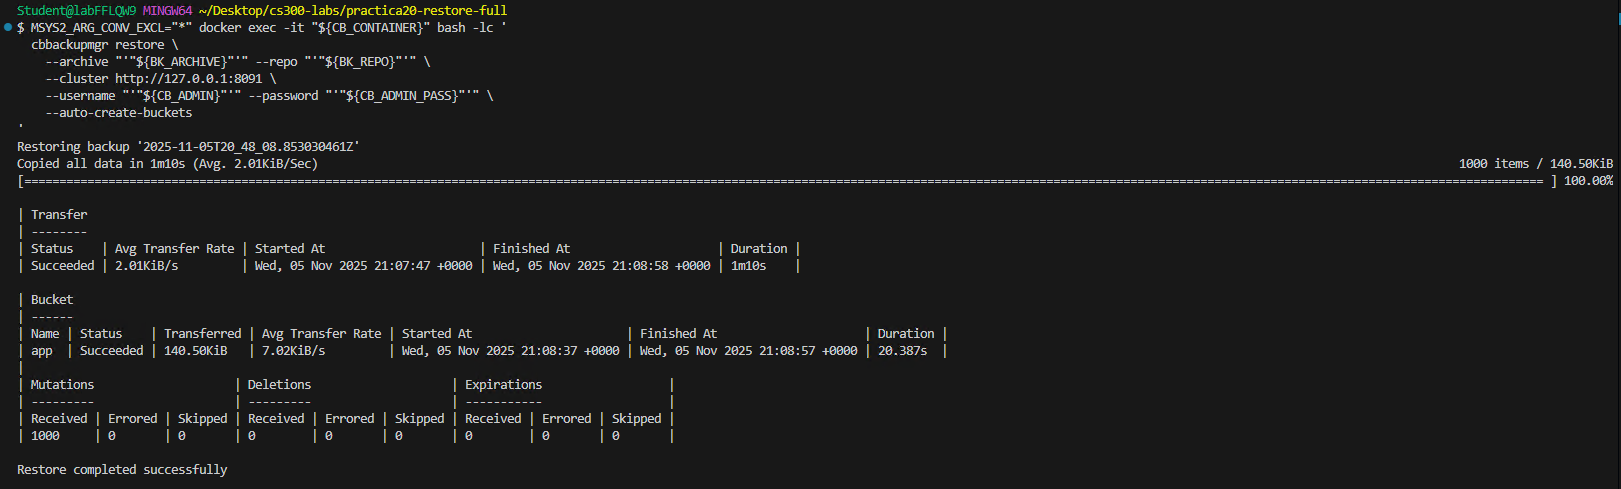
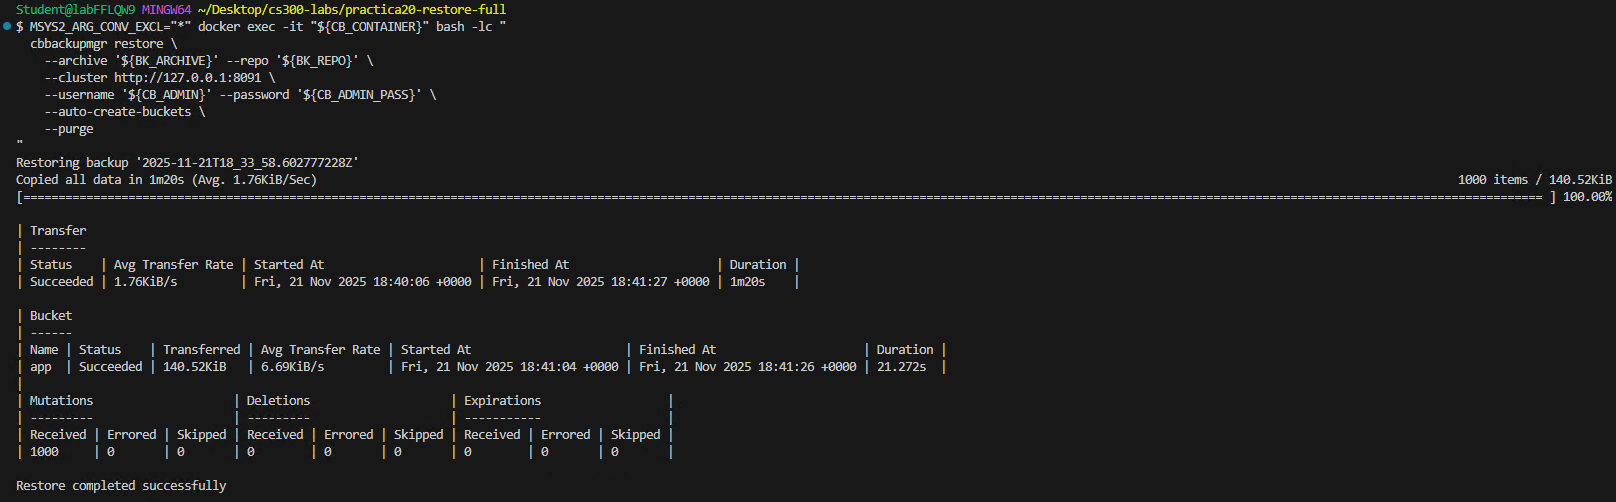
Ajustes de la practica 20 y 22

diff --git a/labs/lab20/lab20.md b/labs/lab20/lab20.md
@@ -359,7 +359,7 @@ Simularás pérdida del bucket borrándolo del clúster y **restaurarás** el co
   ```
   ![cbase16]({{ page.images_base | relative_url }}/16.png)
 
-- **Paso 20.** Reliza la restauracion **completa** desde el repo.
+- **Paso 20.** Realiza la restauracion **completa** desde el repo.
 
   > **NOTA:** Si tu backup contiene múltiples buckets o colecciones, `--map-data` te permite controlar exactamente a dónde se restauran. Para esta practica no es necesario.
   {: .lab-note .info .compact}
@@ -367,13 +367,14 @@ Simularás pérdida del bucket borrándolo del clúster y **restaurarás** el co
   {: .lab-note .important .compact}
 
   ```bash
-  MSYS2_ARG_CONV_EXCL="*" docker exec -it "${CB_CONTAINER}" bash -lc '
+  MSYS2_ARG_CONV_EXCL="*" docker exec -it "${CB_CONTAINER}" bash -lc "
     cbbackupmgr restore \
-      --archive "'"${BK_ARCHIVE}"'" --repo "'"${BK_REPO}"'" \
+      --archive '${BK_ARCHIVE}' --repo '${BK_REPO}' \
       --cluster http://127.0.0.1:8091 \
-      --username "'"${CB_ADMIN}"'" --password "'"${CB_ADMIN_PASS}"'" \
-      --auto-create-buckets
-  '
+      --username '${CB_ADMIN}' --password '${CB_ADMIN_PASS}' \
+      --auto-create-buckets \
+      --purge
+  "
   ```
   ![cbase17]({{ page.images_base | relative_url }}/17.png)
 

diff --git a/labs/lab22/lab22.md b/labs/lab22/lab22.md
@@ -448,7 +448,7 @@ Repetirás las métricas para evidenciar la mejora.
 
 #### Tarea 6.1
 
-- **Paso 25.** Repie la ejecución de la metrica `basicStats` y obten los tamaños de discos usados.
+- **Paso 25.** Repite la ejecución de la metrica `basicStats` y obten los tamaños de discos usados.
 
   > **IMPORTANTE:** Es normal que siga marcando 0% de fragmentación solo es un calculo de referencia y depende de las configuraciones del cluster. Lo importante es que observes la cantidad de **`diskUsed`** y **`dataUsed`** que se haya reducido el tamañao.
   {: .lab-note .important .compact}
@@ -477,7 +477,7 @@ Repetirás las métricas para evidenciar la mejora.
 
   ```bash
   docker exec -it ${CB_CONTAINER} cbq -e http://127.0.0.1:8093 -u "${CB_ADMIN}" -p "${CB_ADMIN_PASS}" \
-    -s "SELECT COUNT(*) AS n FROM \\\`${APP_BUCKET}\\\`.${APP_SCOPE}.${APP_COLLECTION};"
+    -s "SELECT COUNT(*) AS n FROM ${APP_BUCKET}.${APP_SCOPE}.${APP_COLLECTION};"
   ```
   ![cbase21]({{ page.images_base | relative_url }}/21.png)
 
